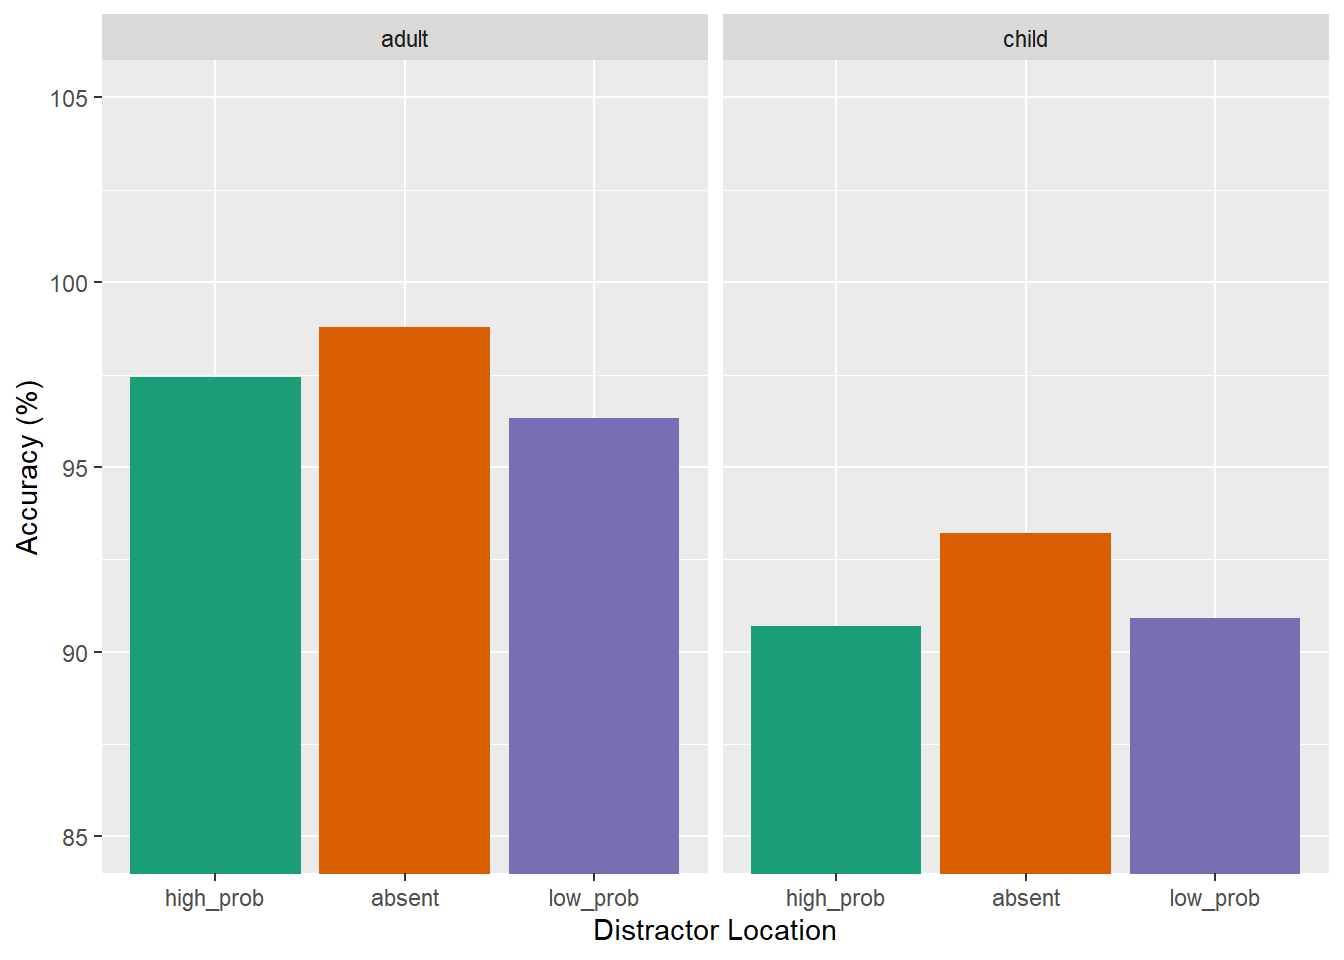
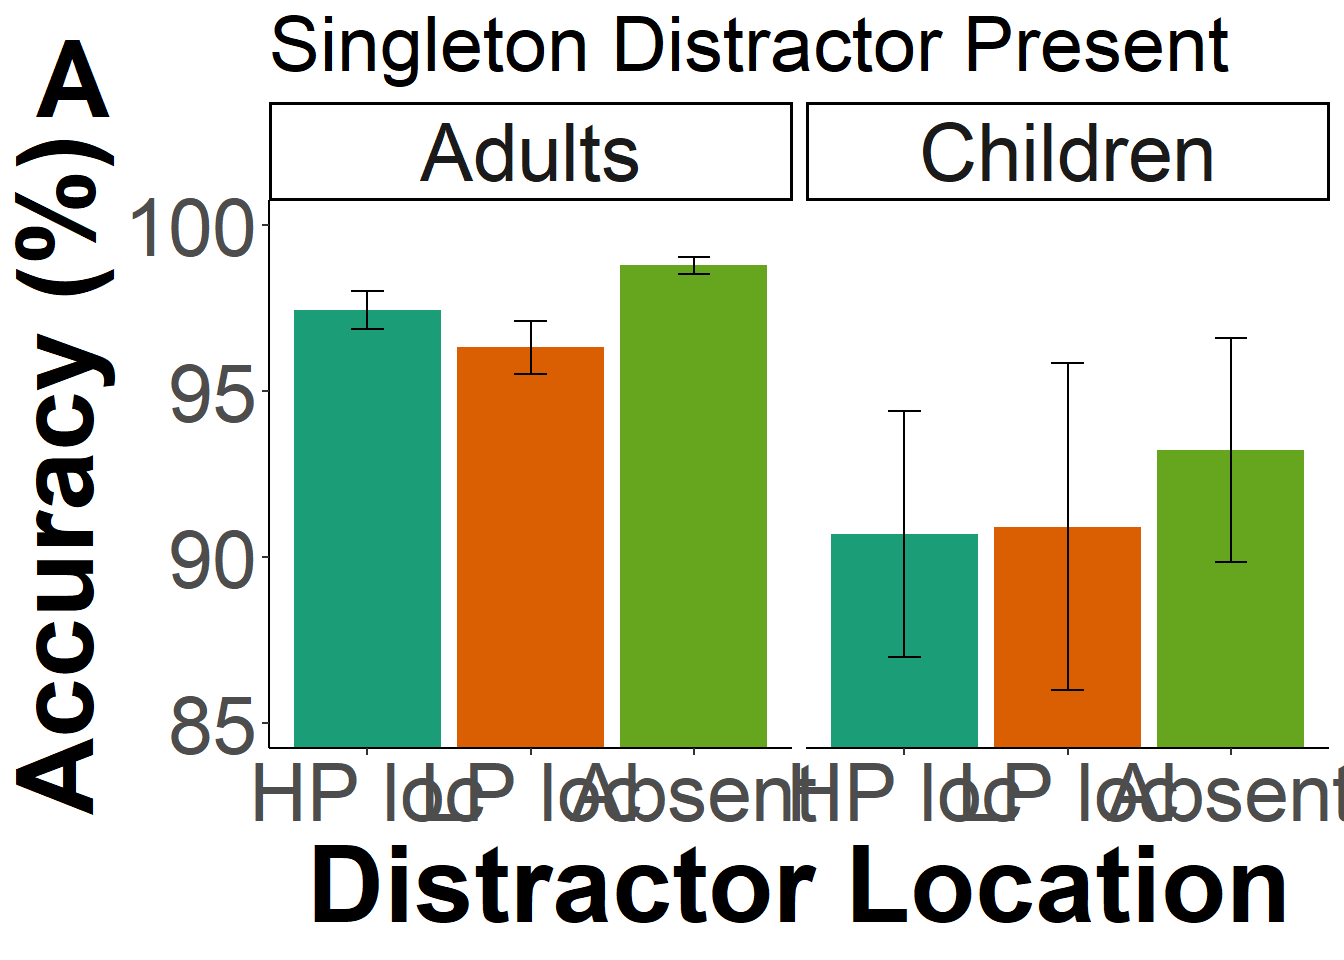
updating plots

diff --git a/docs/p09.html b/docs/p09.html
@@ -316,67 +316,7 @@ library(magrittr)
 library(cowplot)</code></pre>
 <p>I put all the messy loading in of different data sets and adding in
 important columns to an R script instead of having it here.</p>
-<div id="trim-the-data" class="section level3">
-<h3>Trim the Data</h3>
-<p>Define trimming criteria according to Van Selst and Jolicoeur
-1994.</p>
-<pre class="r"><code>xsize &lt;- c(4, 5, 6, 7, 8, 9, 10, 11, 12, 13, 14, 15, 20, 
-             25, 30, 35, 50, 100)
-stds &lt;- c(1.458, 1.68, 1.841, 1.961, 2.05, 2.12, 2.173, 
-            2.22, 2.246, 2.274, 2.31, 2.326, 2.391, 2.41, 2.4305, 
-            2.45, 2.48, 2.5)</code></pre>
-<p>Trim the data and compute the percent trimmed</p>
-<pre class="r"><code>trimmedA &lt;- adults[adults$acc==1, ] %&gt;% group_by(id, relative_hp_dist) %&gt;%
-           mutate(sdc = ifelse(length(rt)&gt;=100,2.5,approx(xsize,stds,xout=length(rt))$y), avg = mean(rt), stdev = sd(rt)) %&gt;%
-           filter(rt &lt;= sdc*stdev+avg &amp; rt &gt;=avg-(sdc*stdev) &amp; rt &gt;=200 &amp; rt&lt;=2500) %&gt;% #exact upper limit =2464.175
-           select(id, age, relative_hp_dist, rt, block_num) %&gt;%  #keep these columns in the new data frame
-           as.data.frame()
-
-
-statPrep &lt;- trimmedA %&gt;% group_by(id, relative_hp_dist) %&gt;% summarise(measurement=mean(rt)) %&gt;% as.data.frame()</code></pre>
-<pre><code>## `summarise()` has grouped output by &#39;id&#39;. You can override using the `.groups`
-## argument.</code></pre>
-<pre class="r"><code>100-(nrow(trimmedA)/nrow(adults[adults$acc==1, ]))*100</code></pre>
-<pre><code>## [1] 5.100756</code></pre>
-<p>5.10% of trials were trimmed from the adult data set.</p>
-<pre class="r"><code>trimmedC12 &lt;- kids12[kids12$acc==1, ] %&gt;% group_by(id, relative_hp_dist) %&gt;%
-           mutate(sdc = ifelse(length(rt)&gt;=100,2.5,approx(xsize,stds,xout=length(rt))$y), avg = mean(rt), stdev = sd(rt)) %&gt;%
-           filter(rt &lt;= sdc*stdev+avg &amp; rt &gt;=avg-(sdc*stdev) &amp; rt &gt;=200 &amp; rt&lt;=7590) %&gt;%  #exact upper limit =7586.794
-           select(id, age1, relative_hp_dist, rt, block_num1) %&gt;%  #keep these columns in the new data frame
-           as.data.frame()
-
-
-statPrep &lt;- trimmedC12 %&gt;% group_by(id, relative_hp_dist) %&gt;% summarise(measurement=mean(rt)) %&gt;% as.data.frame()</code></pre>
-<pre><code>## `summarise()` has grouped output by &#39;id&#39;. You can override using the `.groups`
-## argument.</code></pre>
-<pre class="r"><code>100-(nrow(trimmedC12)/nrow(kids12[kids12$acc==1, ]))*100</code></pre>
-<pre><code>## [1] 4.639738</code></pre>
-<p>4.64% of trials were trimmed from the older child data set.</p>
-<pre class="r"><code>trimmedC6 &lt;- kids6[kids6$acc==1, ] %&gt;% group_by(id, relative_hp_dist) %&gt;%
-           mutate(sdc = ifelse(length(rt)&gt;=100,2.5,approx(xsize,stds,xout=length(rt))$y), avg = mean(rt), stdev = sd(rt)) %&gt;%
-           filter(rt &lt;= sdc*stdev+avg &amp; rt &gt;=avg-(sdc*stdev) &amp; rt &gt;=200 &amp; rt&lt;=18950) %&gt;% #exact upper limit =18929.79
-           select(id, age2, relative_hp_dist, rt, block_num2) %&gt;%  #keep these columns in the new data frame
-           as.data.frame()
-
-
-statPrep &lt;- trimmedC6 %&gt;% group_by(id, relative_hp_dist) %&gt;% summarise(measurement=mean(rt)) %&gt;% as.data.frame()</code></pre>
-<pre><code>## `summarise()` has grouped output by &#39;id&#39;. You can override using the `.groups`
-## argument.</code></pre>
-<pre class="r"><code>100-(nrow(trimmedC6)/nrow(kids6[kids6$acc==1, ]))*100</code></pre>
-<pre><code>## [1] 6.074766</code></pre>
-<p>6.07% of trials were trimmed from the younger child data set.</p>
-<pre class="r"><code>trimmedC12&lt;- trimmedC12 %&gt;%
-  rename(
-    block_num=block_num1,
-    age=age1
-  )
-
-trimmedC6&lt;- trimmedC6 %&gt;%
-  rename(
-    block_num=block_num2,
-    age=age2
-  )
-kids12&lt;- kids12 %&gt;%
+<pre class="r"><code>kids12&lt;- kids12 %&gt;%
   rename(
     block_num=block_num1,
     age=age1
@@ -387,9 +327,7 @@ kids6&lt;- kids6 %&gt;%
     block_num=block_num2,
     age=age2
   )</code></pre>
-<pre class="r"><code>acc_data &lt;- rbind(adults, kids12)
-all_data &lt;- rbind(trimmedA, trimmedC12)</code></pre>
-</div>
+<pre class="r"><code>acc_data &lt;- rbind(adults, kids12)</code></pre>
 <div id="examine-accuracy-effects" class="section level3">
 <h3>Examine Accuracy Effects</h3>
 <pre class="r"><code>acc_data&lt;- acc_data%&gt;%
@@ -397,6 +335,7 @@ all_data &lt;- rbind(trimmedA, trimmedC12)</code></pre>
 
 acc_data&lt;-acc_data%&gt;%
   mutate(acc=acc*100)</code></pre>
+<p>First, examine distractor location effects on accuracy.</p>
 <pre class="r"><code>distacc &lt;- acc_data %&gt;%
   group_by(age,relative_hp_dist) %&gt;%
   summarize(accuracy = mean(acc),
@@ -422,15 +361,49 @@ space_anova &lt;- space_anova %&gt;%
 
 df_mod &lt;- subset(space_anova, select=c(id, age, high_prob, absent, low_prob))
 df_mod &lt;- reshape2::melt(df_mod, id.var=c(&#39;id&#39;, &#39;age&#39;), variable.name= &quot;relative_hp_dist&quot;)</code></pre>
-<pre class="r"><code>ggplot(df_mod, aes(relative_hp_dist, value, fill=relative_hp_dist)) +
-  geom_bar(stat=&quot;summary&quot;, position=&quot;dodge&quot;) + 
-  facet_grid(.~age) +
-  xlab(&quot;Distractor Location&quot;) + ylab(&quot;Accuracy (%)&quot;) +
-  scale_fill_brewer(palette=&quot;Dark2&quot;) +
-  theme(legend.position=&quot;none&quot;)+
-  coord_cartesian(ylim = c(85,105))</code></pre>
-<pre><code>## No summary function supplied, defaulting to `mean_se()`
-## No summary function supplied, defaulting to `mean_se()`</code></pre>
+<pre class="r"><code>sum_stats &lt;- df_mod%&gt;%
+  group_by(age, relative_hp_dist)%&gt;%
+  summarize(mean_acc=mean(value),
+            sd_rt=sd(value),
+            n_rt=n(),
+            se=sd_rt/sqrt(n_rt),
+            upper_limit=mean_acc+se,
+            lower_limit=mean_acc-se
+  )</code></pre>
+<pre><code>## `summarise()` has grouped output by &#39;age&#39;. You can override using the `.groups`
+## argument.</code></pre>
+<pre class="r"><code>sum_stats</code></pre>
+<pre><code>## # A tibble: 6 × 8
+## # Groups:   age [2]
+##   age   relative_hp_dist mean_acc sd_rt  n_rt    se upper_limit lower_limit
+##   &lt;chr&gt; &lt;fct&gt;               &lt;dbl&gt; &lt;dbl&gt; &lt;int&gt; &lt;dbl&gt;       &lt;dbl&gt;       &lt;dbl&gt;
+## 1 adult high_prob            97.4  2.97    27 0.572        98.0        96.9
+## 2 adult absent               98.8  1.29    27 0.248        99.0        98.5
+## 3 adult low_prob             96.3  4.15    27 0.798        97.1        95.5
+## 4 child high_prob            90.7  8.26     5 3.69         94.4        87.0
+## 5 child absent               93.2  7.55     5 3.38         96.6        89.8
+## 6 child low_prob             90.9 11.0      5 4.92         95.8        86.0</code></pre>
+<pre class="r"><code>sum_stats$relative_hp_dist &lt;- factor(sum_stats$relative_hp_dist,              # Change ordering manually
+                  levels = c(&quot;high_prob&quot;, &quot;low_prob&quot;, &quot;absent&quot;))</code></pre>
+<pre class="r"><code>supp.labs &lt;- c(&quot;Adults&quot;, &quot;Children&quot;)
+names(supp.labs) &lt;- c(&quot;adult&quot;, &quot;child&quot;)
+
+a&lt;-ggplot(data = sum_stats, aes(x = relative_hp_dist, y = mean_acc, fill=relative_hp_dist)) +
+  geom_bar(stat = &quot;identity&quot;, show.legend = FALSE)+
+  geom_errorbar(aes(ymin=lower_limit, ymax=upper_limit), width=0.2)+
+  coord_cartesian(ylim = c(85,100))+ 
+  facet_grid(.~age, labeller = labeller(age=supp.labs)) +
+  theme_classic()+
+  theme(axis.text=element_text(size=30),
+        axis.title=element_text(size=40,face=&quot;bold&quot;),
+        title = element_text(size = 24),
+        strip.text.x = element_text(size=30)) +
+  labs(x = &quot;Distractor Location&quot;, y = &quot;Accuracy (%)&quot;)+
+  labs(title = &quot;Singleton Distractor Present&quot;)+
+  scale_fill_manual(values=c(&#39;#1b9e77&#39;, &#39;#d95f02&#39;, &#39;#66a61e&#39;)) +
+  scale_x_discrete(labels= c(&quot;high_prob&quot;=&quot;HP loc&quot;,&quot;low_prob&quot;=&quot;LP loc&quot;,&quot;absent&quot;=&quot;Absent&quot;))
+
+plot_grid(a,labels = c(&#39;A&#39;), label_size=40)</code></pre>
 <p><img src="p09_files/figure-html/plot-first-1.png" width="672" /></p>
 <p>Run the 3x2 ANOVA on accuracy data.</p>
 <pre class="r"><code>model3 &lt;- aov_car(value ~ age*relative_hp_dist + Error(id/relative_hp_dist), data=df_mod)</code></pre>
@@ -469,7 +442,7 @@ the distractor location effect on accuracy across the 5 conditions.</p>
 <pre class="r"><code>ggplot(acc_data, aes(relative_hp_dist, acc, fill=relative_hp_dist)) +
   geom_bar(stat=&quot;summary&quot;, position=&quot;dodge&quot;) + 
   facet_grid(.~age) +
-  xlab(&quot;Distractor Location&quot;) + ylab(&quot;Response Times (ms)&quot;) +
+  xlab(&quot;Distractor Location&quot;) + ylab(&quot;Accuracy (%)&quot;) +
   scale_fill_brewer(palette=&quot;Dark2&quot;) +
   theme(legend.position=&quot;none&quot;)+
   coord_cartesian(ylim = c(85,105))</code></pre>
@@ -516,14 +489,7 @@ the distractor location effect on accuracy across the 5 conditions.</p>
 ## sample estimates:
 ## mean difference 
 ##       -2.443136</code></pre>
-<pre class="r"><code>ggplot(df_mod, aes(relative_hp_dist, value, fill=relative_hp_dist)) +
-  geom_bar(stat=&quot;summary&quot;, position=&quot;dodge&quot;) +
-  xlab(&quot;Distractor Location&quot;) + ylab(&quot;Response Times (ms)&quot;) +
-  scale_fill_brewer(palette=&quot;Dark2&quot;) +
-  theme(legend.position=&quot;none&quot;)+
-  coord_cartesian(ylim = c(85,105))</code></pre>
-<pre><code>## No summary function supplied, defaulting to `mean_se()`</code></pre>
-<p><img src="p09_files/figure-html/plot-collapse-1.png" width="672" /></p>
+<p>Second, examine target location effects on accuracy.</p>
 <pre class="r"><code>spaceT &lt;- acc_data %&gt;%
   group_by(age, id, relative_target) %&gt;%
   summarize(acc = mean(acc)
@@ -538,16 +504,44 @@ space_anovaT &lt;- space_anovaT %&gt;%
 
 df_mod_targ &lt;- subset(space_anovaT, select=c(id, age, high_prob, low_prob))
 df_mod_targ &lt;- reshape2::melt(df_mod_targ, id.var=c(&#39;id&#39;, &#39;age&#39;), variable.name= &quot;relative_target&quot;)</code></pre>
-<pre class="r"><code>ggplot(df_mod_targ, aes(relative_target, value, fill=relative_target)) +
-  geom_bar(stat=&quot;summary&quot;, position=&quot;dodge&quot;) + 
-  facet_grid(.~age) +
-  xlab(&quot;Distractor Location&quot;) + ylab(&quot;Accuracy (%)&quot;) +
-  scale_fill_brewer(palette=&quot;Dark2&quot;) +
-  theme(legend.position=&quot;none&quot;)+
-  coord_cartesian(ylim = c(85,105))</code></pre>
-<pre><code>## No summary function supplied, defaulting to `mean_se()`
-## No summary function supplied, defaulting to `mean_se()`</code></pre>
-<p><img src="p09_files/figure-html/plot-first-target-1.png" width="672" /></p>
+<pre class="r"><code>sum_statsT &lt;- df_mod_targ%&gt;%
+  group_by(age, relative_target)%&gt;%
+  summarize(mean_acc=mean(value),
+            sd_rt=sd(value),
+            n_rt=n(),
+            se=sd_rt/sqrt(n_rt),
+            upper_limit=mean_acc+se,
+            lower_limit=mean_acc-se
+  )</code></pre>
+<pre><code>## `summarise()` has grouped output by &#39;age&#39;. You can override using the `.groups`
+## argument.</code></pre>
+<pre class="r"><code>sum_statsT</code></pre>
+<pre><code>## # A tibble: 4 × 8
+## # Groups:   age [2]
+##   age   relative_target mean_acc sd_rt  n_rt    se upper_limit lower_limit
+##   &lt;chr&gt; &lt;fct&gt;              &lt;dbl&gt; &lt;dbl&gt; &lt;int&gt; &lt;dbl&gt;       &lt;dbl&gt;       &lt;dbl&gt;
+## 1 adult high_prob           97.4  2.71    27 0.521        97.9        96.9
+## 2 adult low_prob            98.2  1.85    27 0.356        98.5        97.8
+## 3 child high_prob           92.7 10.3      5 4.61         97.3        88.1
+## 4 child low_prob            92.5  7.85     5 3.51         96.0        89.0</code></pre>
+<pre class="r"><code>b&lt;-ggplot(data = sum_statsT, aes(x = relative_target, y = mean_acc, fill=relative_target)) +
+  geom_bar(stat = &quot;identity&quot;, show.legend = FALSE)+
+  geom_errorbar(aes(ymin=lower_limit, ymax=upper_limit), width=0.2)+
+  coord_cartesian(ylim = c(85,100))+ 
+  facet_grid(.~age, labeller = labeller(age=supp.labs)) +
+  theme_classic()+
+  theme(axis.text=element_text(size=30),
+        axis.title=element_text(size=40,face=&quot;bold&quot;),
+        title = element_text(size = 24),
+        strip.text.x = element_text(size=30)) +
+  labs(x = &quot;Target Location&quot;, y = &quot;Accuracy (%)&quot;)+
+  labs(title = &quot;Singleton Distractor Absent&quot;)+
+  scale_fill_manual(values=c(&#39;#1b9e77&#39;, &#39;#d95f02&#39;, &#39;#66a61e&#39;)) +
+  scale_x_discrete(labels= c(&quot;high_prob&quot;=&quot;HP loc&quot;,&quot;low_prob&quot;=&quot;LP loc&quot;))
+
+
+plot_grid(a, b,labels = c(&#39;A&#39;,&#39;B&#39;), label_size=40, ncol=1)</code></pre>
+<p><img src="p09_files/figure-html/plot-first-target-1.png" width="2112" /></p>
 <p>Run the 3x2 ANOVA on accuracy data.</p>
 <pre class="r"><code>model3 &lt;- aov_car(value ~ age*relative_target + Error(id/relative_target), data=df_mod_targ)</code></pre>
 <pre><code>## Converting to factor: age</code></pre>
@@ -563,6 +557,54 @@ df_mod_targ &lt;- reshape2::melt(df_mod_targ, id.var=c(&#39;id&#39;, &#39;age&#3
 ## ---
 ## Signif. codes:  0 &#39;***&#39; 0.001 &#39;**&#39; 0.01 &#39;*&#39; 0.05 &#39;+&#39; 0.1 &#39; &#39; 1</code></pre>
 <p>For target location accuracy, there is only a main effect of age.</p>
+</div>
+<div id="children-ages-6-7-accuracy-only-3-kids" class="section level3">
+<h3>Children ages 6-7 Accuracy – Only 3 kids</h3>
+<pre class="r"><code>kids6&lt;- kids6%&gt;%
+  filter(id != 30, block_num2 != 3, block_num2 != 4, block_num2 != 5,block_num2 != 6)
+
+kids6&lt;-kids6%&gt;%
+  mutate(acc=acc*100)</code></pre>
+<pre class="r"><code>space_block6 &lt;- kids6 %&gt;%
+  group_by(id, block_num, relative_hp_dist) %&gt;%
+  summarize(accs = mean(acc),
+            )</code></pre>
+<pre><code>## `summarise()` has grouped output by &#39;id&#39;, &#39;block_num&#39;. You can override using
+## the `.groups` argument.</code></pre>
+<pre class="r"><code>space_block6 &lt;- setDT(space_block6)
+space_block6 &lt;- dcast(space_block6,id+block_num~relative_hp_dist,value.var=&#39;accs&#39;)</code></pre>
+<pre class="r"><code>space_block6 &lt;- space_block6 %&gt;%
+  mutate(low_prob = rowMeans(select(space_block6, c(lp_1,lp_2,lp_3)),na.rm=TRUE)) %&gt;%
+  mutate(difference = (low_prob-high_prob))</code></pre>
+<pre class="r"><code>ggplot(data = space_block6,aes(x=block_num, y=difference, group=id))+
+  geom_line()+
+  labs(title = &quot;Difference in Accuracies&quot;, subtitle = &quot;for distractor presentation at the low-probability locations and high-probability location by block&quot;)+
+  theme_classic()+
+  labs(x = &quot;Block Number&quot;, y = &quot;Difference in Accuracy (%)&quot;)</code></pre>
+<p><img src="p09_files/figure-html/line_plot-kids6-1.png" width="672" /></p>
+<pre class="r"><code>space2 &lt;- space_block6 %&gt;%
+  group_by(block_num) %&gt;%
+  summarize(rts = mean(difference, na.rm = TRUE),
+            sd_rt=sd(difference, na.rm = TRUE),
+            n_rt=3,
+            se=sd_rt/sqrt(n_rt),
+            upper_limit=rts+se,
+            lower_limit=rts-se
+            )
+space2</code></pre>
+<pre><code>## # A tibble: 2 × 7
+##   block_num    rts sd_rt  n_rt    se upper_limit lower_limit
+##       &lt;dbl&gt;  &lt;dbl&gt; &lt;dbl&gt; &lt;dbl&gt; &lt;dbl&gt;       &lt;dbl&gt;       &lt;dbl&gt;
+## 1         1 -14.8   17.5     3  10.1       -4.67      -24.9 
+## 2         2   3.84  19.8     3  11.4       15.2        -7.57</code></pre>
+<pre class="r"><code>ggplot(data = space2,aes(x=block_num, y=rts))+
+  geom_line()+
+  geom_point()+
+  geom_errorbar(aes(ymin=lower_limit, ymax=upper_limit), width=0.2)+
+  labs(title = &quot;Singleton Distractor Present&quot;)+
+  xlab(&quot;Block number&quot;)+
+  ylab(expression(atop(&quot;Suppression effect (ms)&quot;, paste(&quot;(high prob. - low prob.)&quot;))))</code></pre>
+<p><img src="p09_files/figure-html/line_plot_avg-1.png" width="672" /></p>
 </div>
 
 

diff --git a/docs/p10.html b/docs/p10.html
@@ -452,7 +452,7 @@ a&lt;-ggplot(data = sum_stats, aes(x = relative_target, y = mean_rts, fill=relat
         axis.title=element_text(size=40,face=&quot;bold&quot;),
         title = element_text(size = 24),
         strip.text.x = element_text(size=30)) +
-  labs(x = &quot;Distractor Location&quot;, y = &quot;Response Time (ms)&quot;)+
+  labs(x = &quot;Target Location&quot;, y = &quot;Response Time (ms)&quot;)+
   labs(title = &quot;Singleton Distractor Absent&quot;)+
  scale_fill_manual(values=c(&#39;#1b9e77&#39;, &#39;#d95f02&#39;)) +
   scale_x_discrete(labels= c(&quot;high_prob&quot;=&quot;HP loc&quot;,&quot;low_prob&quot;=&quot;LP loc&quot;))
